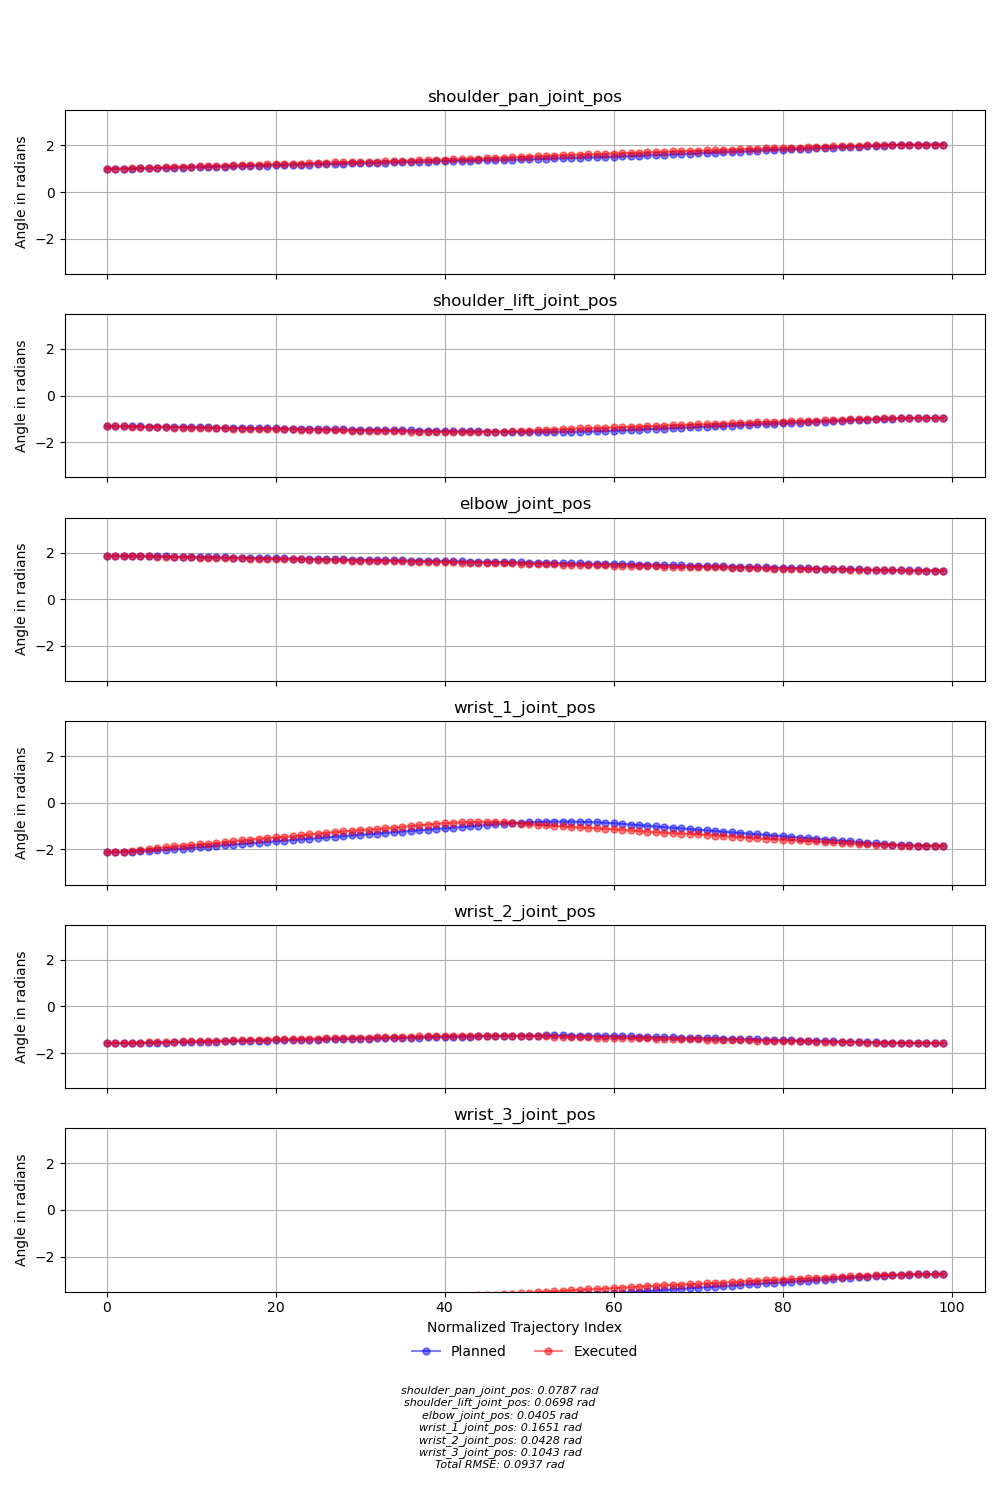
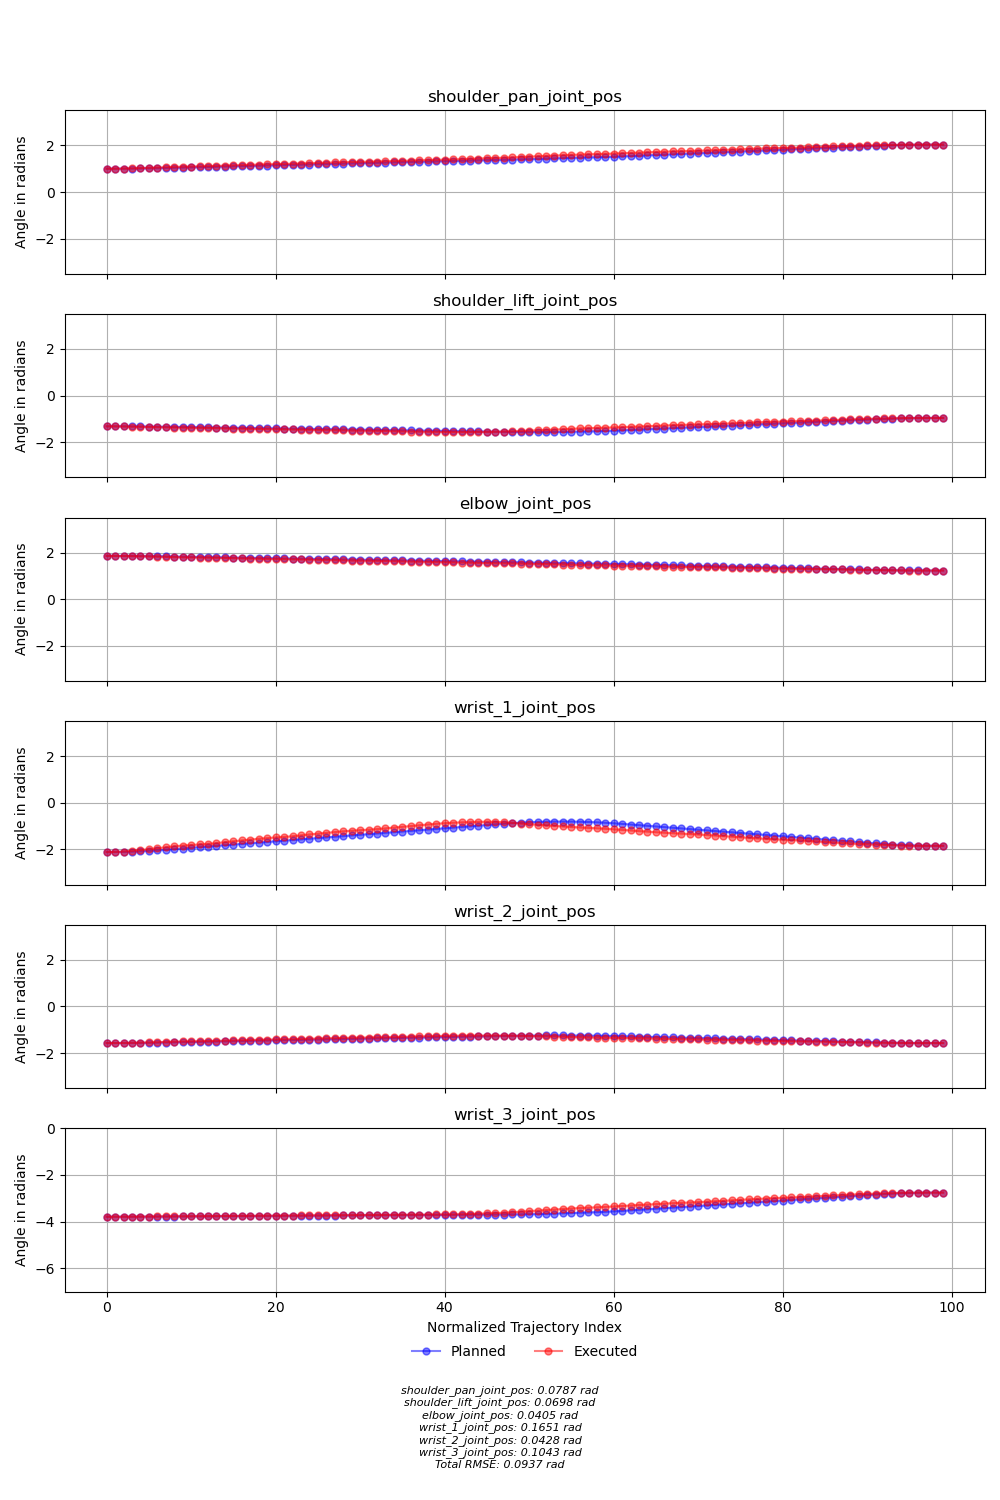
fixed trajectory_20250722_124049_compare_planned_vs_executed.png

Changed region(s): [[0.093, 0.7667, 0.961, 0.8587]]

diff --git a/evaluate_motion_primitives_from_trajectory_controller/compare.py b/evaluate_motion_primitives_from_trajectory_controller/compare.py
@@ -92,10 +92,10 @@ def main():
     # filename_reduced = "trajectory_20250721_152220_reduced_PTP.csv"
     # mode = "joint"
 
-    # filename_planned = "trajectory_20250722_124049_planned.csv"
-    # filename_executed = "trajectory_20250722_124049_executed.csv"
-    # filename_reduced = "trajectory_20250722_124049_reduced_LIN.csv"
-    # mode = "cartesian"
+    filename_planned = "trajectory_20250722_124049_planned.csv"
+    filename_executed = "trajectory_20250722_124049_executed.csv"
+    filename_reduced = "trajectory_20250722_124049_reduced_LIN.csv"
+    mode = "cartesian"
 
     ### KUKA ###
     # filename_planned = "trajectory_20250722_094638_planned.csv"
@@ -163,42 +163,42 @@ def main():
     filepath_reduced = os.path.join(data_dir, filename_reduced)
 
     ## UR ###
-    # joint_names = [
-    #     "shoulder_pan_joint",
-    #     "shoulder_lift_joint",
-    #     "elbow_joint",
-    #     "wrist_1_joint",
-    #     "wrist_2_joint",
-    #     "wrist_3_joint",
-    # ]
-    # joint_pos_names = [
-    #     "shoulder_pan_joint_pos",
-    #     "shoulder_lift_joint_pos",
-    #     "elbow_joint_pos",
-    #     "wrist_1_joint_pos",
-    #     "wrist_2_joint_pos",
-    #     "wrist_3_joint_pos",
-    # ]
-    # joint_vel_threshold = 0.001
-
-    ### KUKA ###
     joint_names = [
-        "joint_a1",
-        "joint_a2",
-        "joint_a3",
-        "joint_a4",
-        "joint_a5",
-        "joint_a6",
+        "shoulder_pan_joint",
+        "shoulder_lift_joint",
+        "elbow_joint",
+        "wrist_1_joint",
+        "wrist_2_joint",
+        "wrist_3_joint",
     ]
     joint_pos_names = [
-        "joint_a1_pos",
-        "joint_a2_pos",
-        "joint_a3_pos",
-        "joint_a4_pos",
-        "joint_a5_pos",
-        "joint_a6_pos",
+        "shoulder_pan_joint_pos",
+        "shoulder_lift_joint_pos",
+        "elbow_joint_pos",
+        "wrist_1_joint_pos",
+        "wrist_2_joint_pos",
+        "wrist_3_joint_pos",
     ]
-    joint_vel_threshold = 1.0
+    joint_vel_threshold = 0.001
+
+    ### KUKA ###
+    # joint_names = [
+    #     "joint_a1",
+    #     "joint_a2",
+    #     "joint_a3",
+    #     "joint_a4",
+    #     "joint_a5",
+    #     "joint_a6",
+    # ]
+    # joint_pos_names = [
+    #     "joint_a1_pos",
+    #     "joint_a2_pos",
+    #     "joint_a3_pos",
+    #     "joint_a4_pos",
+    #     "joint_a5_pos",
+    #     "joint_a6_pos",
+    # ]
+    # joint_vel_threshold = 1.0
 
     pose_names = ["pose_x", "pose_y", "pose_z", "pose_qx", "pose_qy", "pose_qz", "pose_qw"]
 

diff --git a/evaluate_motion_primitives_from_trajectory_controller/compare_planned_and_executed_trajectory.py b/evaluate_motion_primitives_from_trajectory_controller/compare_planned_and_executed_trajectory.py
@@ -86,7 +86,7 @@ def compare_and_plot_joint_trajectories(
 
     axs[-1].set_xlabel("Normalized Trajectory Index")
 
-    # axs[-1].set_ylim(-7, 0)
+    axs[-1].set_ylim(-7, 0)
 
     # Global legend
     axs[-1].legend(
